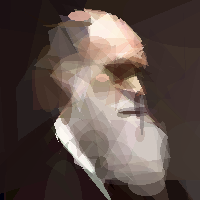
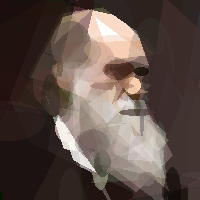
examples

diff --git a/src/population.rs b/src/population.rs
@@ -30,23 +30,13 @@ use tiny_skia::Pixmap;
 fn survive(rate : f32,  population: &mut Population, target: &Vec<u8>,width: u32, height: u32){
 
 
-
-
-    // 1. Create ONE reusable buffer before the loop starts
     population.individuals.par_iter_mut().for_each_init(
-        // 1. INIT: Create ONE buffer per thread
         || tiny_skia::Pixmap::new(width, height).unwrap(),
-
-        // 2. WORK: The thread uses its specific buffer to evaluate the individual
         |buffer, ind| {
-            // A. Clear the buffer
             buffer.fill(tiny_skia::Color::WHITE);
-
-            // B. Draw into the thread's reusable buffer
             draw_into_buffer(ind, buffer);
-
-            // C. Evaluate the fitness
             ind.fitness = evaluate_with_buffer(buffer, target);
+
         }
     );
     population.individuals.sort_by(|a, b| b.fitness.total_cmp(&a.fitness));
@@ -157,13 +147,12 @@ pub fn run_evolution(population: &mut Population, target: &Vec<u8>, mutate_rate:
 use crate::{individual, polygon};
 use rand::seq::SliceRandom;
 
-// Notice I removed the return type -> Individual
 fn mutate(individual: &mut Individual, mul: f32, max_sizes: u8, width: u32, height: u32,shape_size_mul : f64) {
     let mut rng = rand::thread_rng();
 
     let len = individual.chromosomes.len();
 
-    if rng.gen_bool(0.08) && len < 1000 {
+    if rng.gen_bool(0.08) && len < 100 {
         if rng.gen_bool(0.4){
             individual.chromosomes.push(create_ellipse(width as u16, height as u16,shape_size_mul));
         }else{

diff --git a/src/individual.rs b/src/individual.rs
@@ -21,7 +21,7 @@ pub fn draw_into_buffer(individual: &Individual, pixmap: &mut Pixmap) {
         let mut pb = PathBuilder::new();
 
         if shape.is_polygon {
-            // Existing polygon logic
+      
             if let Some(first) = shape.points.first() {
                 pb.move_to(first.x as f32, first.y as f32);
                 for point in shape.points.iter().skip(1) {
@@ -30,7 +30,7 @@ pub fn draw_into_buffer(individual: &Individual, pixmap: &mut Pixmap) {
                 pb.close();
             }
         } else {
-            // Ellipse logic: assumes points[0] and points[1] make up the bounding box
+       
             if shape.points.len() >= 2 {
                 let p1 = &shape.points[0];
                 let p2 = &shape.points[1];
@@ -40,8 +40,7 @@ pub fn draw_into_buffer(individual: &Individual, pixmap: &mut Pixmap) {
                 }
             }
         }
-
-        // The rest stays exactly the same
+        
         if let Some(path) = pb.finish() {
             let mut paint = Paint::default();
 

diff --git a/src/main.rs b/src/main.rs
@@ -53,7 +53,7 @@ fn main() {
     println!("Done. Time elapsed: {:?}", start.elapsed());
 
 
-    //cargo run --release -- 9c.png 10000 500
+    //RUSTFLAGS="-C target-cpu=native" cargo run --release -- 9c.png 10000 500
 }
 
 
@@ -93,7 +93,6 @@ impl EvolutionEngine {
 
         let mut combine_function: fn(&Individual, &Individual) -> Individual = uniform_crossover;
 
-        // Now it perfectly accepts the new function!
         combine_function = array_based_pivot;
         for i in 0..self.generations {
 